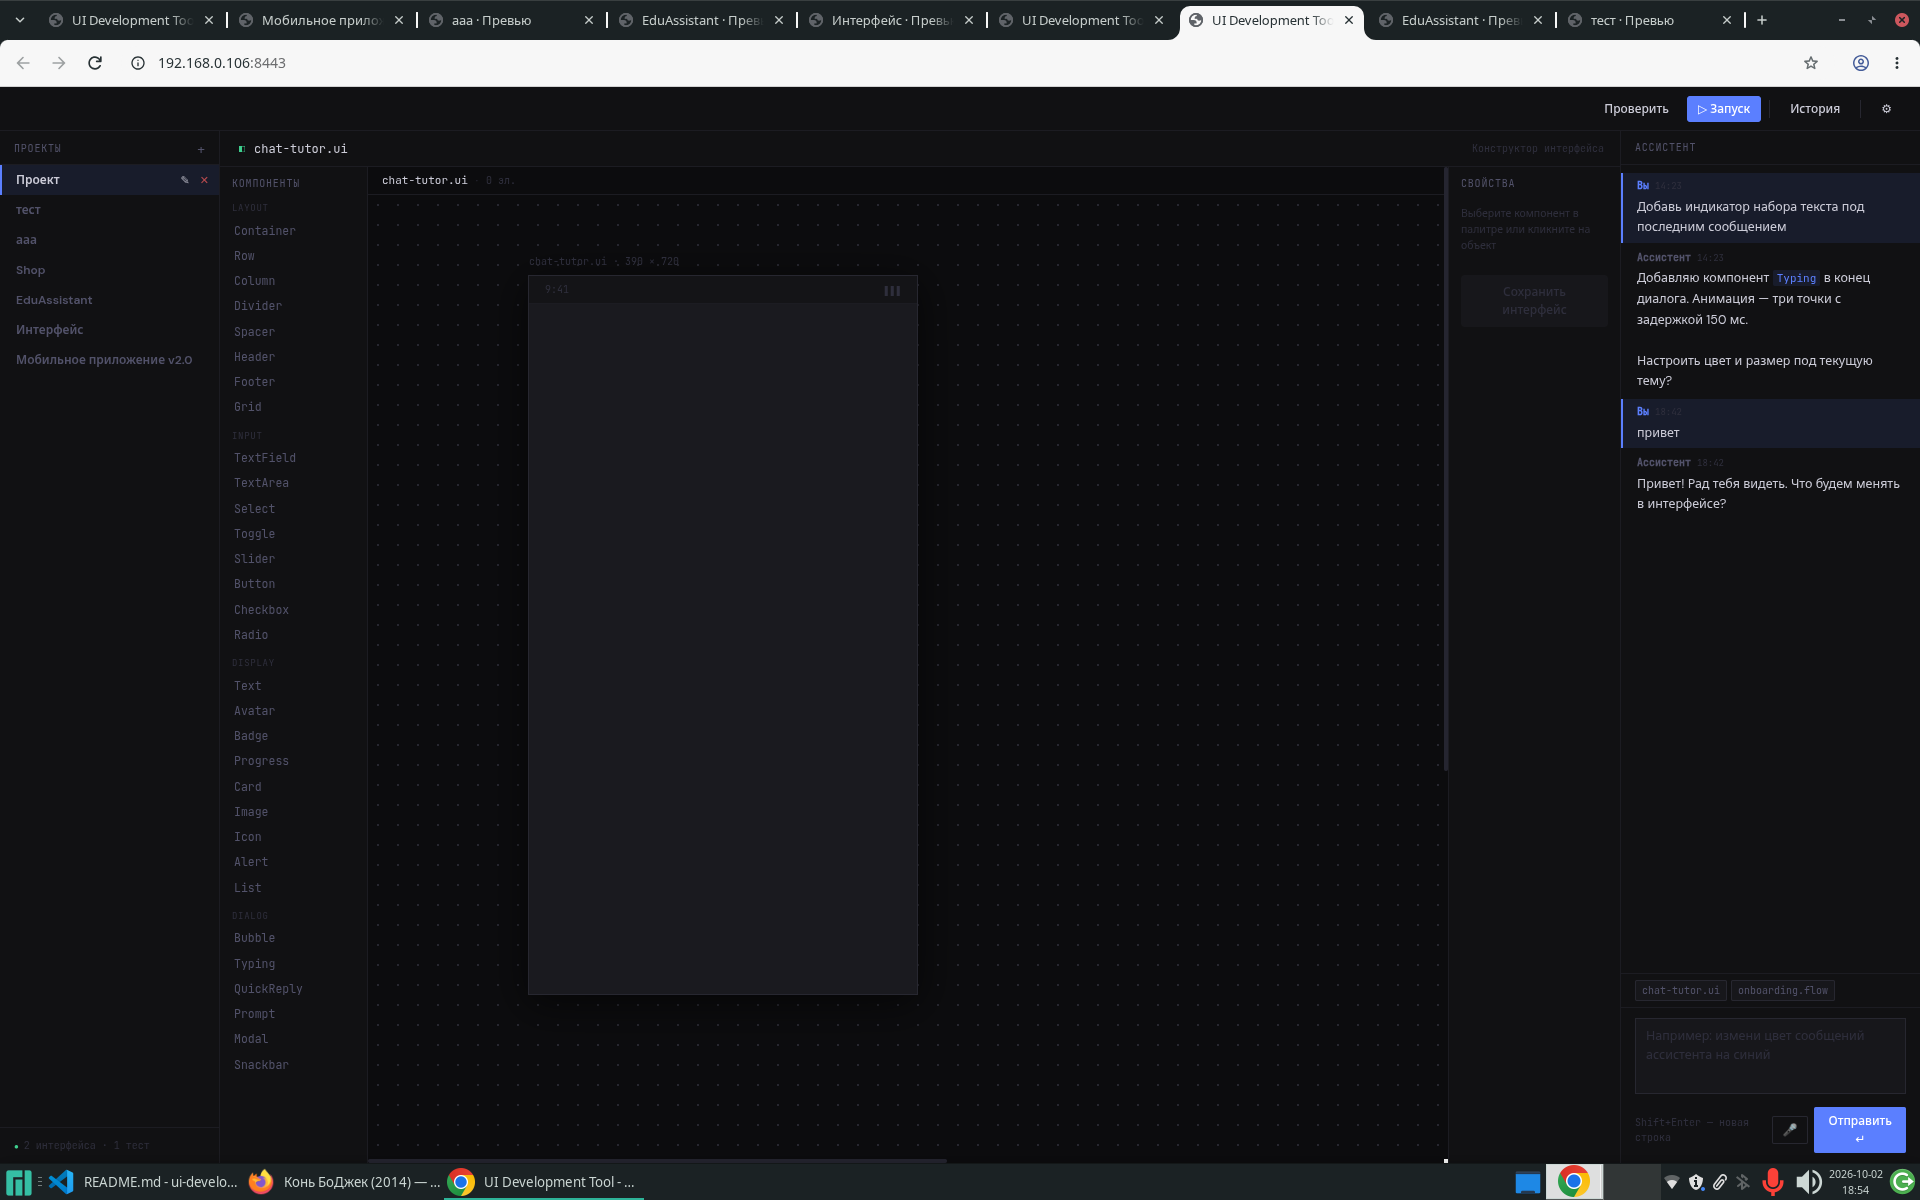
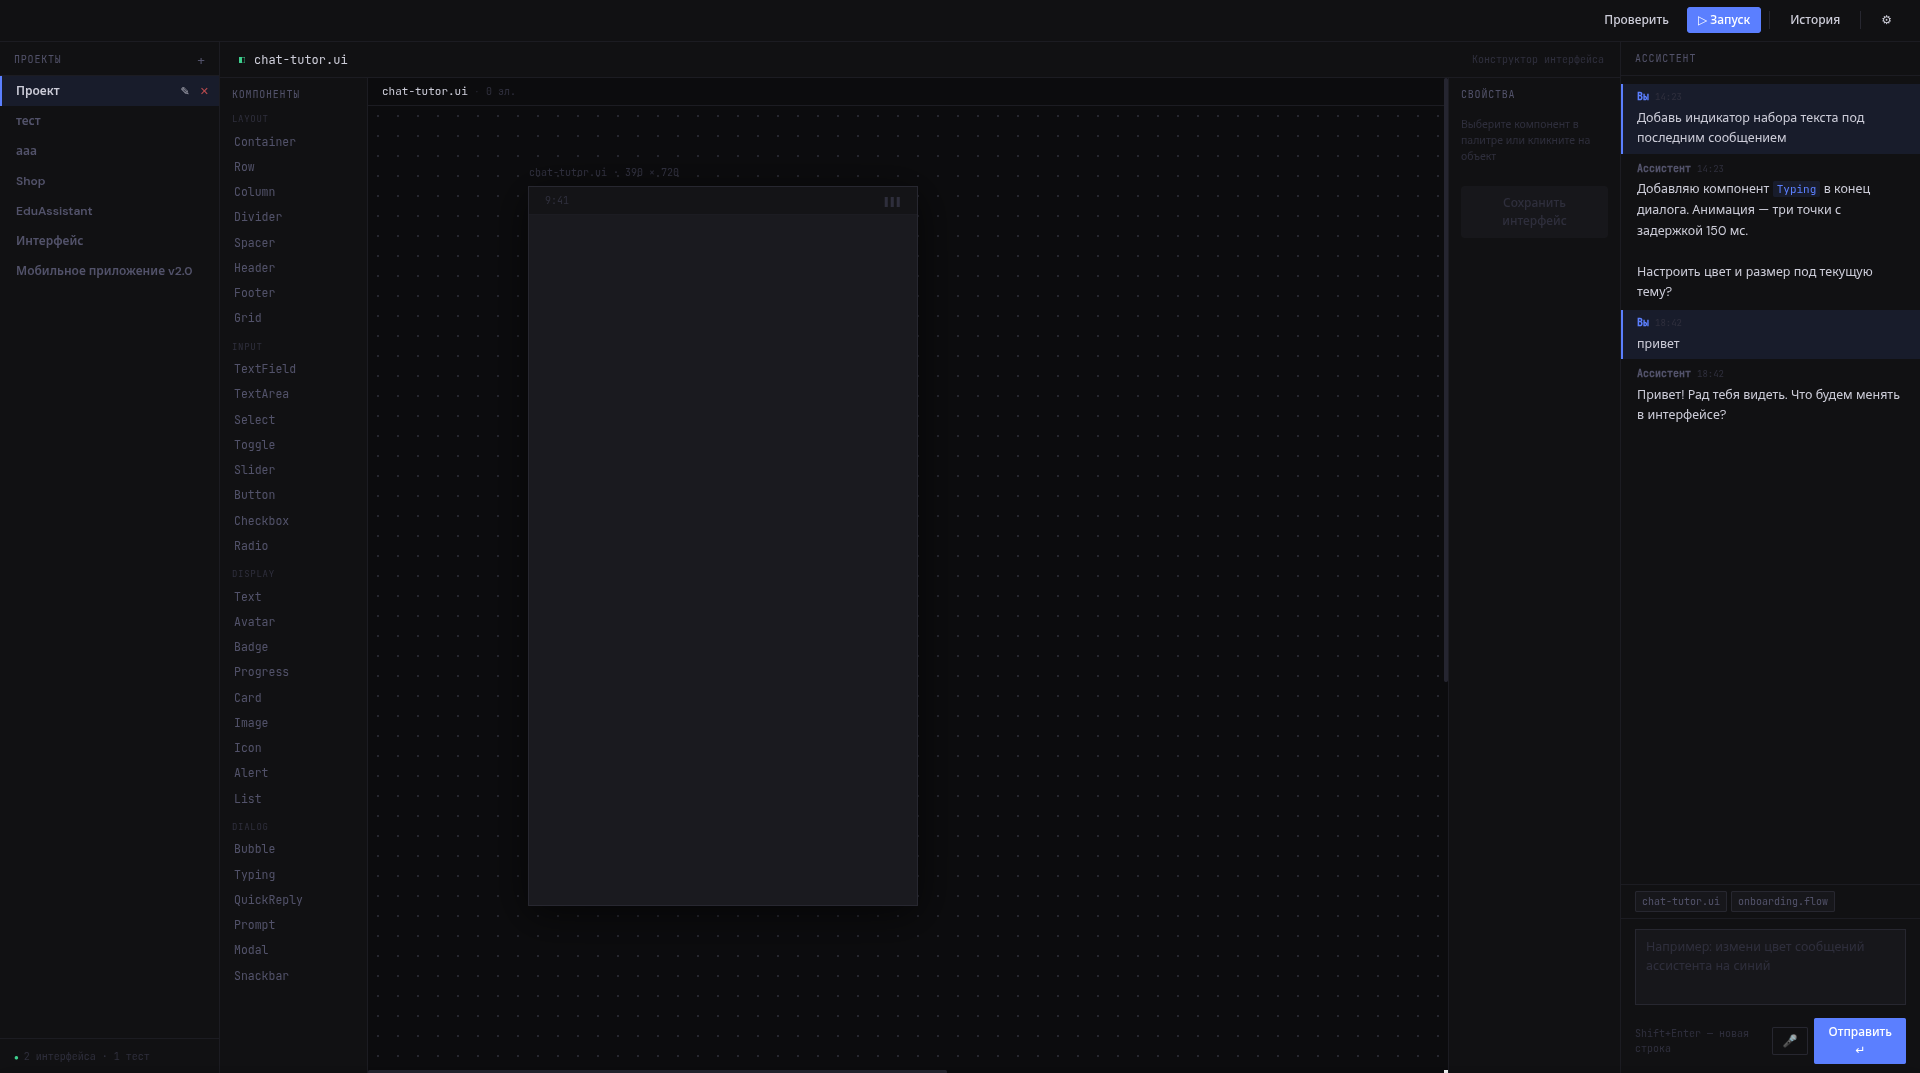
add readme and screenshots

diff --git a/README.md b/README.md
@@ -112,8 +112,8 @@ DB_NAME=ui_projects_db
 DB_USER=postgres
 DB_PASSWORD=password
 
-AI_BASE_URL=https://url
-AI_MODEL=your_model
+AI_BASE_URL=https://opencode.ai/zen/go/v1
+AI_MODEL=kimi-k2.7-code
 AI_API_KEY=your_api_key_here
 ```
 
@@ -124,8 +124,8 @@ AI_API_KEY=your_api_key_here
 | `DB_NAME` | Имя базы данных | `ui_projects_db` |
 | `DB_USER` | Пользователь БД | `postgres` |
 | `DB_PASSWORD` | Пароль пользователя БД | `password` |
-| `AI_BASE_URL` | Базовый URL API LLM | — |
-| `AI_MODEL` | Модель LLM | — |
+| `AI_BASE_URL` | Базовый URL API LLM | `https://opencode.ai/zen/go/v1` |
+| `AI_MODEL` | Модель LLM | `kimi-k2.7-code` |
 | `AI_API_KEY` | API-ключ для LLM | — |
 
 ---
@@ -158,42 +158,36 @@ AI_API_KEY=your_api_key_here
 
 ### Главный экран / рабочее пространство
 
-> **Место для скриншота:** общий вид приложения с открытым проектом.
+Общий вид приложения с открытым проектом, деревом файлов и панелью инструментов.
 
-![Главный экран](docs/screenshots/main-screen.png)
+![Главный экран](screenshots/main-screen.png)
 
 ### Панель проектов
 
-> **Место для скриншота:** боковая панель со списком проектов и деревом файлов.
+Боковая панель со списком проектов и древовидной структурой файлов.
 
-![Панель проектов](docs/screenshots/projects-panel.png)
+![Панель проектов](screenshots/projects-panel.png)
 
 ### Визуальный конструктор
 
-> **Место для скриншота:** холст с размещёнными компонентами и панелью свойств.
+Холст с размещёнными компонентами и панелью свойств для редактирования.
 
-![Конструктор](docs/screenshots/ui-builder.png)
+![Конструктор](screenshots/ui-builder.png)
 
 ### Диалог с AI-ассистентом
 
-> **Место для скриншота:** панель LLM-общения с запросом и ответом ассистента.
+Панель общения с ассистентом: запросы на естественном языке и ответы.
 
-![AI-ассистент](docs/screenshots/llm-chat.png)
+![AI-ассистент](screenshots/llm-chat.png)
 
 ### Превью проекта
 
-> **Место для скриншота:** интерактивный превью с диалогом.
+Интерактивный превью с диалогом, имитирующий работу готового приложения.
 
-![Превью](docs/screenshots/preview.png)
+![Превью](screenshots/preview.png)
 
 ### История изменений
 
-> **Место для скриншота:** панель с историей правок UI.
+Панель с историей правок UI, где можно отследить все внесённые изменения.
 
-![История изменений](docs/screenshots/changes-history.png)
-
----
-
-## Лицензия
-
-[LICENSE](LICENSE)
+![История изменений](screenshots/changes-history.png)
